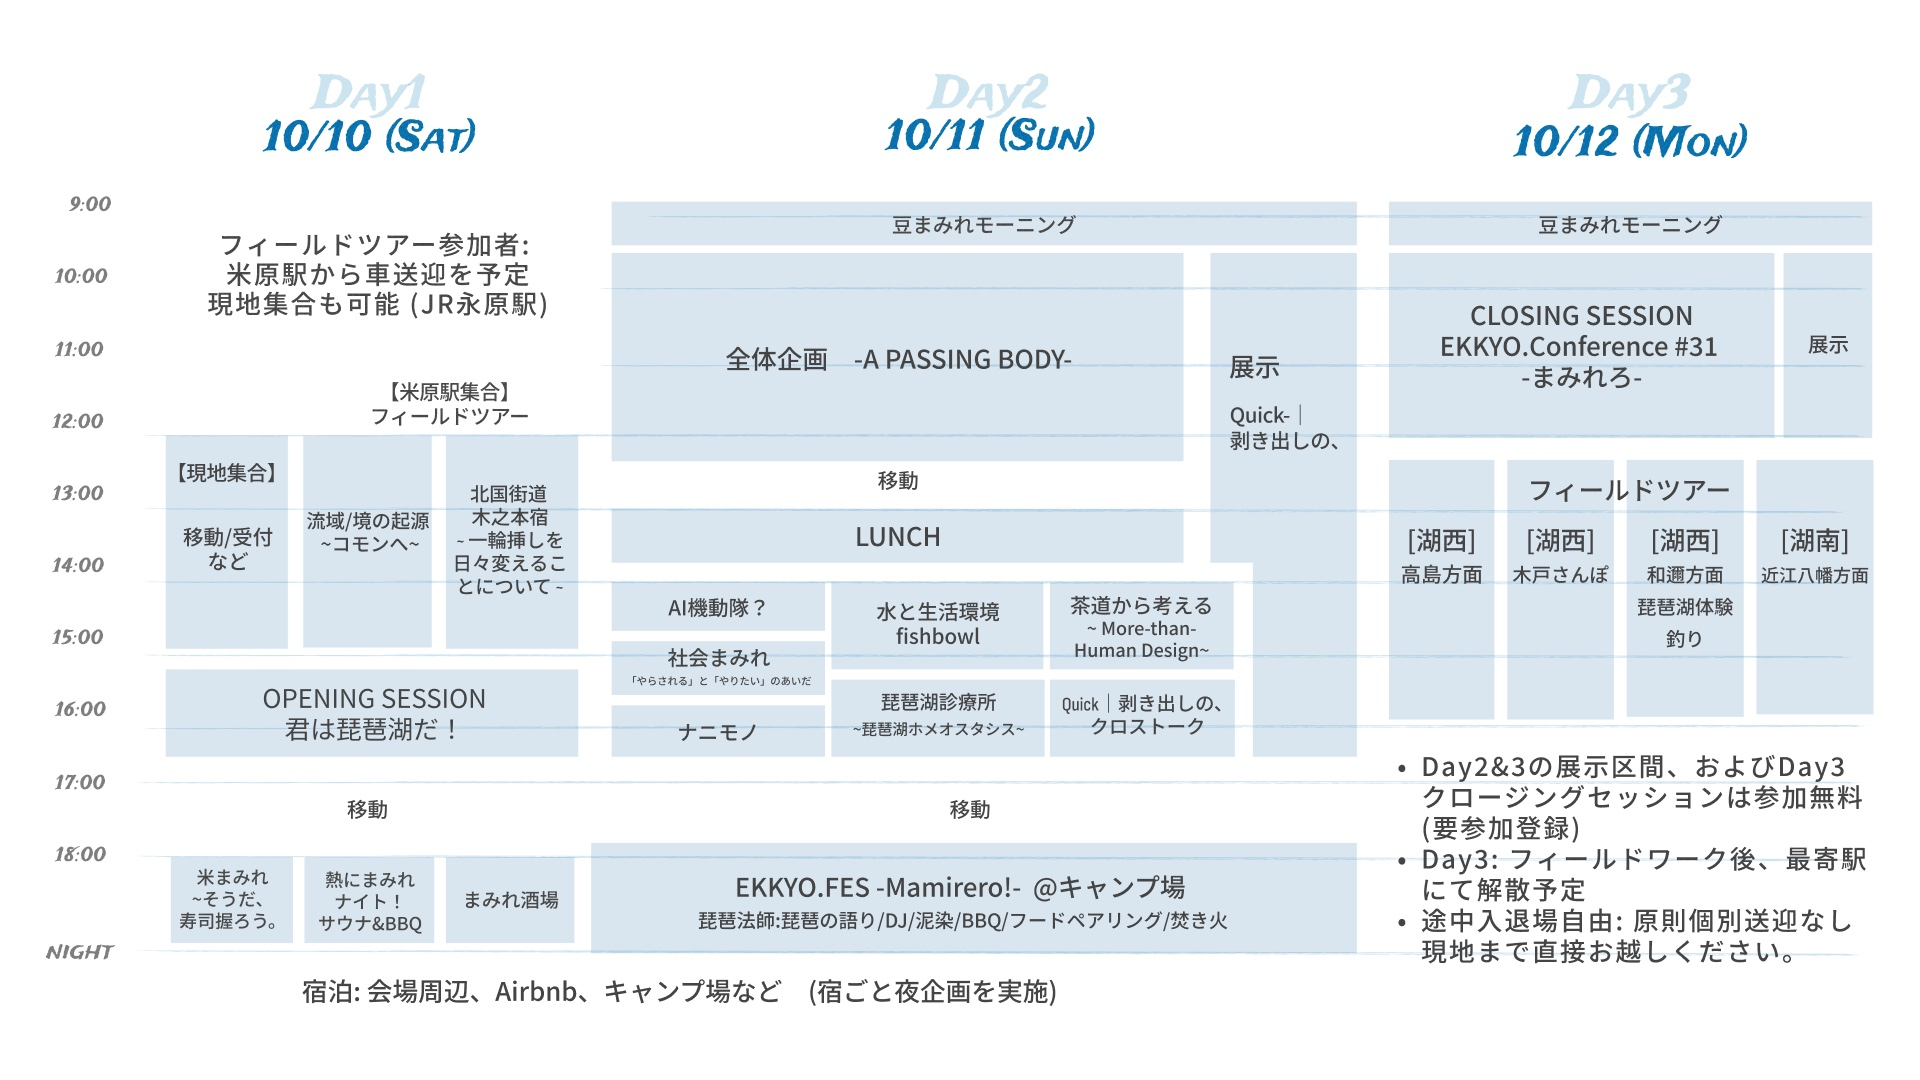
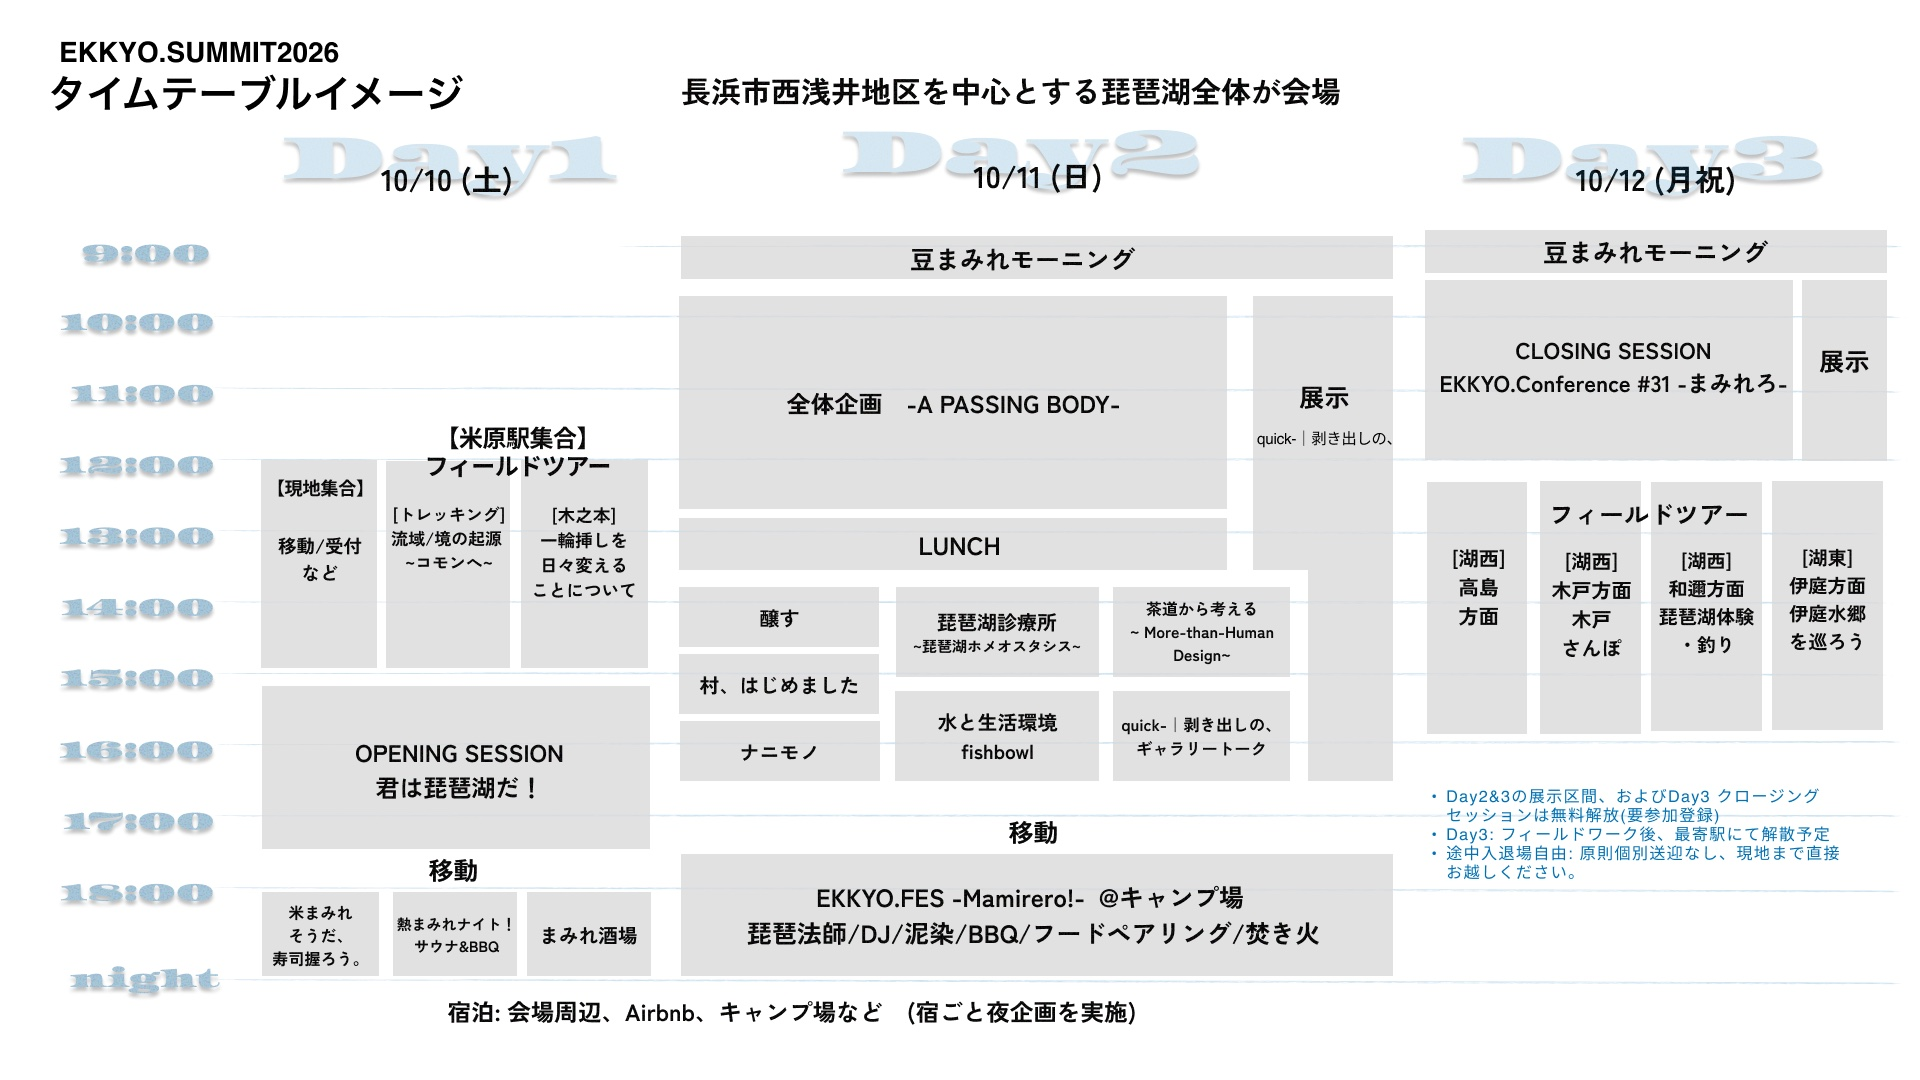
SUMMIT 2026: マスタ更新（伊庭水郷を追加ほか）と出展者写真 (#15)
* SUMMIT 2026: マスタ更新（水と生活環境→木津裕人、伊庭水郷を追加）、写真追加、ONE SLASH株式会社表記

- 水と生活環境の出展者を木津裕人に変更
- 10/12「伊庭水郷を巡ろう」（東近江市伊庭町・石川歩）を追加
- 前川晋也さんの企画名を「一輪挿しを日々変えることについて」に
- ONE SLASH は「ONE SLASH株式会社」表記に統一
- 出展者写真を追加（ONE SLASH株式会社・山口裕也）

* SUMMIT 2026: 木村道徳さんの「協力」表記をランドスケープの企画側へ移動

CLOSING は協力ではなく登壇のため、プロフィールから外し、Day2 ランドスケープの
協力（琵琶湖博物館 大久保実香・滋賀県立大学 上田洋平）として表示する

* SUMMIT 2026: 前川晋也さんの企画名を正式名称「北国街道 木之本宿 一輪挿しを日々変えることについて」に

* SUMMIT 2026: 前川晋也さんの企画名をマスタどおり「一輪挿しを日々変えることについて」に

「北国街道 木之本宿」はマスタに無いため付けない

* SUMMIT 2026: タイムテーブル概略画像を差し替え

---------

diff --git a/src/content/summit2026.ts b/src/content/summit2026.ts
@@ -56,6 +56,8 @@ export const EXHIBITOR_IMAGES: Record<string, string> = {
   前川晋也: "/images/summit2026/exhibitors/maekawa-shinya.jpg",
   加藤大生: "/images/summit2026/exhibitors/kato-taisei.jpg",
   木村道徳: "/images/summit2026/exhibitors/kimura-michinori.jpg",
+  "ONE SLASH株式会社": "/images/summit2026/exhibitors/one-slash.jpg",
+  山口裕也: "/images/summit2026/exhibitors/yamaguchi-yuya.jpg",
 };
 
 /* 出展者プロフィール（名前 → 段落の配列）。出典: 出展者フォーム回答（掲載可と明記） */
@@ -82,7 +84,6 @@ export const PROFILES: Record<string, string[]> = {
     "大学4年生。大学では経営組織論を専攻し、「人はなぜ組織の中で自ら動くのか」という問いを中心に、組織における自発性と管理の関係について研究している。研究活動の傍ら、高校生の探究支援や海外研修の企画・運営などにも関わる。組織を研究しながら、自身もさまざまな「組織」にまみれながら生きている。",
   ],
   木村道徳: [
-    "長浜バイオ大学 教授（協力：琵琶湖博物館 大久保実香、滋賀県立大学 上田洋平）。",
     "長浜バイオ大学は、琵琶湖という全国でも稀なフィールドを活かし、実験・実習や医療・創薬・食品・動物・データ分析など幅広い分野に触れながら、学びを社会につなげていくのが特長です。教授の木村道徳は、自然環境・社会を接点に、複雑なこれらの関係性を手元に手繰り寄せるための調査研究を中心に行っています。協力者の、琵琶湖博物館の大久保実香氏、滋賀県立大学の上田洋平氏らと一緒に、滋賀県湖北地域を中心に広がる広大な森林と社会の結い直し、未来につなぐための方法を考えています。",
   ],
   鈴木智也: [
@@ -120,7 +121,7 @@ export const PROGRAMS: Program[] = [
     id: "kinomoto",
     day: 1,
     time: "11:00–14:30",
-    title: "北国街道 木之本宿 一輪挿しを日々変えることについて",
+    title: "一輪挿しを日々変えることについて",
     place: "木之本",
     by: "前川晋也",
     desc: [
@@ -209,7 +210,7 @@ export const PROGRAMS: Program[] = [
     time: "13:00–14:00",
     title: "ゲリラ炊飯",
     place: "西浅井",
-    by: "ONE SLASH",
+    by: "ONE SLASH株式会社",
   },
   {
     id: "ai-kidotai",
@@ -224,7 +225,7 @@ export const PROGRAMS: Program[] = [
     time: "14:00–15:30",
     title: "水と生活環境 ～fishbowl～",
     place: "西浅井",
-    by: "石川歩",
+    by: "木津裕人",
   },
   {
     id: "sado",
@@ -275,6 +276,7 @@ export const PROGRAMS: Program[] = [
     title: "ランドスケープ ― 滋賀・琵琶湖の景観を読み、未来の暮らしを語る。",
     place: "西浅井",
     by: "木村道徳",
+    coop: "琵琶湖博物館 大久保実香・滋賀県立大学 上田洋平",
     desc: [
       "景観・ランドスケープは、そこに住まう人々の暮らしによって形作られています。何気ない街並みや借景に映る山や湖も、そこで暮らす人々の積年の暮らしが刻まれています。",
       "本ワークショップ企画では、何気なく撮影した滋賀・琵琶湖の風景写真と過去の暮らしの様子を描いたふるさと絵屏風を元に、写真や絵に記されているディティールの比較から、どのような文化、社会、くらし、そこに住まう人々の思いを感じ取れるのか、自由な対話を通じて探索します。",
@@ -294,7 +296,7 @@ export const PROGRAMS: Program[] = [
     place: "DEEP BANK",
     by: "鈴木智也",
     acts: "竹本智志（琵琶の語り）",
-    coop: "ONE SLASH・DEEP BANK",
+    coop: "ONE SLASH株式会社・DEEP BANK",
     people: ["鈴木智也", "竹本智志"],
     desc: [
       "SUMMITのテーマ「まみれろ。」を、食・酒・火・表現を通して体感する夜の交流企画です。舞台は西浅井。土地に根を張る「土の人」と、外から文化や価値観を運んでくる「風の人」が、BBQや地元の食、お酒、パフォーマンス、出店を介して同じ空間に混ざり合います。",
@@ -352,6 +354,14 @@ export const PROGRAMS: Program[] = [
       },
     ],
     note: "田舎の集落を練り歩きます。田んぼ道や山道を歩くこともあるので、歩きなれた靴でお越しください。定員10名ほど。",
+  },
+  {
+    id: "iba",
+    day: 3,
+    time: "13:00–17:00",
+    title: "伊庭水郷を巡ろう",
+    place: "東近江市伊庭町",
+    by: "石川歩",
   },
 ];
 

diff --git a/.claude/memory/summit-2026-mamire-effects.md b/.claude/memory/summit-2026-mamire-effects.md
@@ -21,6 +21,9 @@ metadata:
 - **チラシの見せ方** — `.mamire-paper`＝SVG data-URI を `mask-image` に使い、radialGradient（外周が透ける）＋feDisplacementMap（縁の揺れ）を **マスク側だけ** に与える。中身は歪まず・回転もしない（ユーザー指摘「中身が歪んで読めない／傾け不要」）。
 - **チラシ** — `SUMMIT2026_チラシ.pdf` は 25MB・2ページ。PDF圧縮ツールがこのMacに無い（gs/qpdf/mutool/magick なし）ため同梱せず、`FLYER_URL`（Drive などの外部URL）を入れる方式。1ページ目のプレビュー `flyer-p1.jpg` は同梱済み（開催概要の下）。
 - **データの出典は2ファイル** — ①マスタ「SUMMIT2026」(`1ZTHoJPjsch7mnnBzla364ZpvMdQYq9NZIvcv3PuOiW8`) の WS_マスタ タブ＝日時・会場・出展者・題名の正、②出展者フォーム回答「EKYYO.SUMMIT2026 企画」(`13XDspqSAilIdgQtkUKAL_xqqd1NIxhIuudUrIR6EDf8`)＝企画趣旨・プロフィール・ひとこと・参加にあたって の正（手編集あり・最新）。マスタ内のフォーム回答タブは古い静的コピーなので使わない。どちらも Drive コネクタの read_file_content で読める（セル単位の書き込み手段は無い）。「掲載NG」欄・メール・必要備品は掲載しない。2026-09-20 からデータ構造は `PROFILES`（人ごと）／`messages[{text,by}]`／`acts`（出演）。
+- **表記ルール** — ONE SLASH は正式表記が要る所（出展者・協力）では「ONE SLASH株式会社」（写真キーも同名）。上田洋平さんの写真（`1-1_上田洋平.png`）は本人確認が取れるまで「まだ待って」（2026-09-20）＝載せない。
+- **協力の置き場所** — 木村道徳さんの「協力：琵琶湖博物館 大久保実香・滋賀県立大学 上田洋平」は Day2「ランドスケープ」の企画側（`coop`）に載せる。プロフィールには入れない（CLOSING で登壇者として出るとき「協力」に見えてしまうため。CLOSING は協力ではなく登壇）。
+- **題名はマスタが正** — 前川晋也さんの企画は「一輪挿しを日々変えることについて」（「北国街道 木之本宿」はマスタに無いのでサイトにも付けない。ユーザー指示 2026-09-20）。題名・日時・会場・出展者はマスタどおりに書き、こちらで補わない。
 - **FAQ** — `Faq.tsx`（`<details>` アコーディオン）、データ `FAQ`。2025 STUDIOサイトのFAQを下敷きに、1日券/通し券・20〜30代・永原駅集合へ更新。
 - **見出しの区切り** — 罫線は「AIっぽい」との指摘で廃止。`SectionTitle` の下に泥の一滴（SVG path＋`#mamire-mud-mark` の feDisplacementMap）を置く。
 - **集合場所** — JR湖西線・永原駅（2026-09-11 決定）。開催概要・アクセス・FAQ・JSON-LD・地図リンクすべて永原駅。
